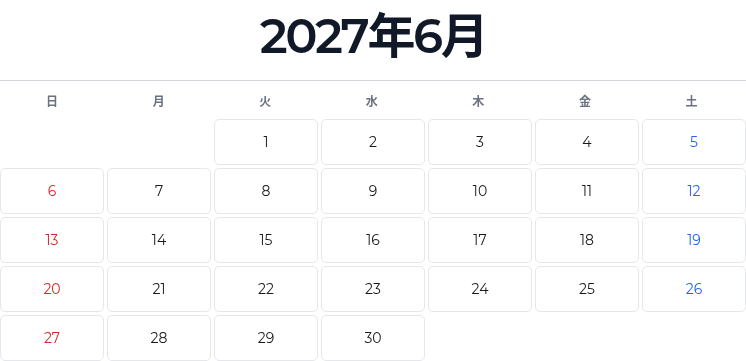
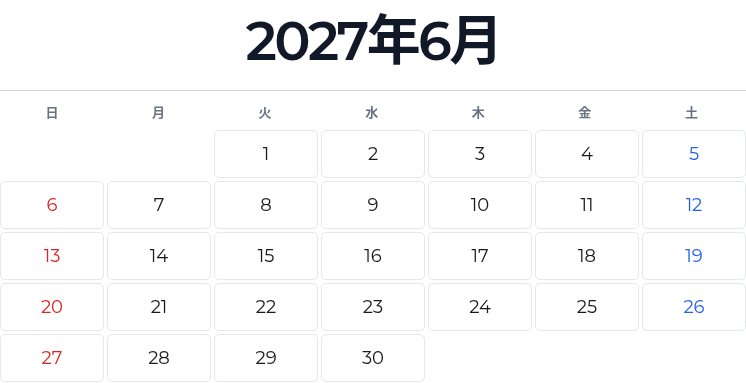
Allow independent day alignment and layout font defaults

diff --git a/tests/e2e/calendar-layouts.spec.ts b/tests/e2e/calendar-layouts.spec.ts
@@ -7,6 +7,14 @@ test("selects ten calendar layouts and exports the date list", async ({ page }) 
   const calendar = page.locator("[data-calendar-layout]").first();
   await expect(controls.getByRole("button")).toHaveCount(11);
   await expect(calendar).toHaveAttribute("data-calendar-layout", "standard");
+  const horizontal = page.getByRole("region", { name: "日付の左右揃え" });
+  const vertical = page.getByRole("region", { name: "日付の上下揃え" });
+  await horizontal.getByRole("button", { name: "右", exact: true }).click();
+  await vertical.getByRole("button", { name: "下", exact: true }).click();
+  const dayCell = calendar.locator(".calendar-cell:not([data-empty])").first();
+  await expect(dayCell).toHaveCSS("align-items", "flex-end");
+  await expect(dayCell).toHaveCSS("padding-top", "16px");
+  await expect(dayCell).toHaveCSS("padding-bottom", "0px");
 
   for (const [label, layout] of [
     ["中央・短い下線", "centered"],
@@ -26,6 +34,16 @@ test("selects ten calendar layouts and exports the date list", async ({ page }) 
     await expect(calendar).toHaveAttribute("data-calendar-layout", layout);
   }
 
+  await expect(horizontal.getByRole("button", { name: "右", exact: true })).toHaveAttribute(
+    "aria-pressed",
+    "true",
+  );
+  await expect(vertical.getByRole("button", { name: "下", exact: true })).toHaveAttribute(
+    "aria-pressed",
+    "true",
+  );
+  await expect(calendar.locator(".calendar-day-number").first()).toHaveCSS("align-self", "end");
+
   const dates = calendar.locator(".calendar-list-weekday");
   await expect(dates).toHaveCount(31);
   await expect(dates.first()).toHaveText("Fri");
@@ -40,4 +58,22 @@ test("selects ten calendar layouts and exports the date list", async ({ page }) 
   const html = Buffer.concat(chunks).toString("utf8");
   expect(html).toContain('<div data-calendar-layout="date-list"');
   expect(html).toContain('class="calendar-list-weekday"');
+  expect(html).toContain('data-day-align-h="end" data-day-align-v="end"');
+});
+
+test("uses layout font defaults and keeps manually adjusted sizes", async ({ page }) => {
+  await page.goto("/");
+  await page.getByRole("button", { name: "見た目", exact: true }).click();
+  const layout = page.getByRole("region", { name: "レイアウト", exact: true });
+  const daySize = page.getByText("日付", { exact: true }).locator("..").getByRole("slider");
+  const monthTitle = page.getByTestId("month-title").first();
+  await layout.getByRole("button", { name: "日付カード", exact: true }).click();
+  await expect(daySize).toHaveValue("18");
+  await expect(monthTitle).toHaveCSS("font-size", "54px");
+
+  await daySize.press("End");
+  await expect(daySize).toHaveValue("24");
+  await layout.getByRole("button", { name: "全面格子", exact: true }).click();
+  await expect(daySize).toHaveValue("24");
+  await expect(monthTitle).toHaveCSS("font-size", "48px");
 });

diff --git a/src/components/sidebar/AppearanceSection.tsx b/src/components/sidebar/AppearanceSection.tsx
@@ -1,9 +1,19 @@
-import { CALENDAR_LAYOUTS, resolveCalendarLayout } from "@/lib/calendarLayouts";
+import {
+  CALENDAR_LAYOUTS,
+  getLayoutStyleChange,
+  resolveCalendarLayout,
+} from "@/lib/calendarLayouts";
 import { useCalendarStore } from "@/stores/calendarStore";
 import { Label } from "@/components/ui/label";
 import { ThemeGrid } from "./ThemeGrid";
 import { FontSelector } from "./FontSelector";
 import { SliderField, getFontWarningLevel } from "./SliderField";
+
+const DAY_ALIGNMENT_OPTIONS = [undefined, "start", "center", "end"] as const;
+const DAY_ALIGNMENT_FIELDS = [
+  { field: "dayAlignH", label: "日付の左右揃え", choices: ["自動", "左", "中央", "右"] },
+  { field: "dayAlignV", label: "日付の上下揃え", choices: ["自動", "上", "中央", "下"] },
+] as const;
 
 export function AppearanceSection() {
   const calendarStyle = useCalendarStore((s) => s.calendarStyle);
@@ -19,7 +29,7 @@ export function AppearanceSection() {
               key={id}
               type="button"
               aria-pressed={resolveCalendarLayout(calendarStyle.layoutPreset) === id}
-              onClick={() => setCalendarStyle({ layoutPreset: id })}
+              onClick={() => setCalendarStyle(getLayoutStyleChange(calendarStyle, id))}
               className="rounded-lg border border-transparent bg-surface-container-high px-2 py-2 text-xs hover:border-primary/60 focus-visible:ring-2 focus-visible:ring-ring aria-pressed:border-primary aria-pressed:bg-surface"
             >
               {label}
@@ -27,6 +37,24 @@ export function AppearanceSection() {
           ))}
         </div>
       </section>
+      {DAY_ALIGNMENT_FIELDS.map(({ field, label, choices }) => (
+        <section key={field} aria-label={label} className="space-y-1.5">
+          <h3 className="text-xs font-bold text-on-surface-variant">{label}</h3>
+          <div className="grid grid-cols-4 rounded-lg bg-surface-container-high p-1">
+            {DAY_ALIGNMENT_OPTIONS.map((alignment, index) => (
+              <button
+                key={choices[index]}
+                type="button"
+                aria-pressed={calendarStyle[field] === alignment}
+                onClick={() => setCalendarStyle({ [field]: alignment })}
+                className="rounded-md px-1 py-1.5 text-xs text-on-surface-variant focus-visible:ring-2 focus-visible:ring-ring aria-pressed:bg-surface aria-pressed:text-on-surface aria-pressed:shadow-sm"
+              >
+                {choices[index]}
+              </button>
+            ))}
+          </div>
+        </section>
+      ))}
       <ThemeGrid />
       <FontSelector />
 

diff --git a/src/lib/html/gridRenderer.ts b/src/lib/html/gridRenderer.ts
@@ -1,11 +1,18 @@
-import type { PageData } from "@/stores/types";
+import type { ContentAlign, PageData } from "@/stores/types";
 import { DEFAULT_CALENDAR_STYLE } from "@/lib/constants";
 import { escapeHtml } from "../htmlUtils";
-import { getCalendarTitle, resolveCalendarLayout, type CalendarLayout } from "../calendarLayouts";
+import {
+  getCalendarTitle,
+  resolveCalendarLayout,
+  resolveDayAlignment,
+  type CalendarLayout,
+} from "../calendarLayouts";
 import { renderDayCell } from "./cellRenderer";
 
 export interface GridStyleOverrides {
   layoutPreset?: CalendarLayout;
+  dayAlignH?: ContentAlign;
+  dayAlignV?: ContentAlign;
   monthFontSize?: number;
   weekdayFontSize?: number;
   cellPadding?: number;
@@ -26,13 +33,19 @@ export function renderGridHtml(
 
   const layout = resolveCalendarLayout(style?.layoutPreset);
   const title = getCalendarTitle(layout, page.monthLabel);
+  const dayAlignH = resolveDayAlignment(style?.dayAlignH);
+  const dayAlignV = resolveDayAlignment(style?.dayAlignV);
+  const alignmentAttrs = [
+    dayAlignH && ` data-day-align-h="${dayAlignH}"`,
+    dayAlignV && ` data-day-align-v="${dayAlignV}"`,
+  ].join("");
   const year = title.year
     ? `<span class="calendar-title-year">${escapeHtml(title.year)}</span>`
     : "";
   const titleText =
     layout === "stacked" ? year + escapeHtml(title.main) : escapeHtml(title.main) + year;
   const dayCount = page.grid.flat().filter((cell) => cell.isCurrentMonth && cell.date).length;
-  let gridHtml = `<div data-calendar-layout="${layout}" style="width:${gridWidth}%;--calendar-grid-rule:${page.theme.colors.gridRule};--calendar-list-rows:${Math.ceil(dayCount / 2)};--calendar-list-short-rows:${Math.ceil(dayCount / 3)}">`;
+  let gridHtml = `<div data-calendar-layout="${layout}"${alignmentAttrs} style="width:${gridWidth}%;--calendar-grid-rule:${page.theme.colors.gridRule};--calendar-list-rows:${Math.ceil(dayCount / 2)};--calendar-list-short-rows:${Math.ceil(dayCount / 3)}">`;
   // Month label
   gridHtml += `<div class="calendar-title" style="color:${page.theme.colors.monthLabel};font-size:${monthFontSize}px;font-weight:800;letter-spacing:-0.05em;margin-bottom:${headerGap}px">${titleText}</div>`;
   // Header rule
@@ -50,6 +63,7 @@ export function renderGridHtml(
       gridHtml += renderDayCell(page, ri, ci, page.grid.length, {
         dayFontSize,
         cellPadding,
+        dayAlignV,
         showWeekday: layout === "date-list",
       });
     }

diff --git a/src/components/preview/CalendarGrid.tsx b/src/components/preview/CalendarGrid.tsx
@@ -1,5 +1,10 @@
 import type { CSSProperties } from "react";
-import { getCalendarTitle, resolveCalendarLayout } from "@/lib/calendarLayouts";
+import {
+  getCalendarTitle,
+  getDayCellPadding,
+  resolveCalendarLayout,
+  resolveDayAlignment,
+} from "@/lib/calendarLayouts";
 import "@/lib/calendarLayouts.css";
 import type {
   CalendarStyle,
@@ -53,6 +58,9 @@ export function CalendarGrid({
 
   const layout = resolveCalendarLayout(calendarStyle.layoutPreset);
   const title = getCalendarTitle(layout, monthLabel);
+  const dayAlignH = resolveDayAlignment(calendarStyle.dayAlignH);
+  const dayAlignV = resolveDayAlignment(calendarStyle.dayAlignV);
+  const dayPadding = getDayCellPadding(layout === "date-list" ? 0 : cellPadding, dayAlignV);
   const dayCount = grid.flat().filter((cell) => cell.isCurrentMonth && cell.date).length;
   const gridStyle = {
     width: `${calendarStyle.gridWidth}%`,
@@ -64,7 +72,12 @@ export function CalendarGrid({
   } as CSSProperties;
 
   return (
-    <div data-calendar-layout={layout} style={gridStyle}>
+    <div
+      data-calendar-layout={layout}
+      data-day-align-h={dayAlignH}
+      data-day-align-v={dayAlignV}
+      style={gridStyle}
+    >
       {/* Month label */}
       <div
         data-testid="month-title"
@@ -142,11 +155,12 @@ export function CalendarGrid({
                 className="calendar-cell flex flex-col items-center"
                 data-ruled={ri < grid.length - 1 ? "" : undefined}
                 style={{
-                  padding: `${layout === "date-list" ? 0 : cellPadding}px 0`,
+                  padding: dayPadding,
                 }}
               >
                 <span
                   className="calendar-day-number flex items-center"
+                  data-circled={isCircle ? "" : undefined}
                   style={{
                     color: textColor,
                     fontSize: `${layout === "date-list" ? Math.min(dayFontSize, 14) : dayFontSize}px`,

diff --git a/src/lib/calendarLayouts.ts b/src/lib/calendarLayouts.ts
@@ -1,3 +1,6 @@
+import type { CalendarStyle, ContentAlign } from "@/stores/types";
+import { DEFAULT_CALENDAR_STYLE } from "./constants";
+
 export const CALENDAR_LAYOUTS = [
   { id: "standard", label: "標準グリッド" },
   { id: "centered", label: "中央・短い下線" },
@@ -29,4 +32,41 @@ export function getCalendarTitle(layout: CalendarLayout, label: string) {
   const english = label.match(/^(.+) (\d{4})$/);
   if (english) return { main: english[1], year: english[2] };
   return { main: label };
+}
+
+const LAYOUT_FONT_SIZES: Partial<
+  Record<
+    CalendarLayout,
+    Partial<Pick<CalendarStyle, "monthFontSize" | "dayFontSize" | "weekdayFontSize">>
+  >
+> = {
+  centered: { monthFontSize: 54, dayFontSize: 16 },
+  "side-title": { monthFontSize: 36 },
+  cards: { monthFontSize: 54, dayFontSize: 18, weekdayFontSize: 13 },
+  "date-list": { monthFontSize: 40, dayFontSize: 13 },
+};
+
+export function getLayoutStyleChange(
+  style: CalendarStyle,
+  next: CalendarLayout,
+): Partial<CalendarStyle> {
+  const previousSizes = LAYOUT_FONT_SIZES[resolveCalendarLayout(style.layoutPreset)];
+  const nextSizes = LAYOUT_FONT_SIZES[next];
+  const change: Partial<CalendarStyle> = { layoutPreset: next };
+  for (const key of ["monthFontSize", "dayFontSize", "weekdayFontSize"] as const) {
+    if (style[key] === (previousSizes?.[key] ?? DEFAULT_CALENDAR_STYLE[key])) {
+      change[key] = nextSizes?.[key] ?? DEFAULT_CALENDAR_STYLE[key];
+    }
+  }
+  return change;
+}
+
+export function resolveDayAlignment(value: ContentAlign | undefined): ContentAlign | undefined {
+  if (value === "start" || value === "center" || value === "end") return value;
+}
+
+export function getDayCellPadding(padding: number, vertical?: ContentAlign): string {
+  if (vertical === "start") return `0 0 ${padding * 2}px`;
+  if (vertical === "end") return `${padding * 2}px 0 0`;
+  return `${padding}px 0`;
 }

diff --git a/src/lib/calendarLayouts.css b/src/lib/calendarLayouts.css
@@ -215,3 +215,53 @@
     grid-template-rows: repeat(var(--calendar-list-short-rows), minmax(0, 1fr));
   }
 }
+
+[data-day-align-h="start"] {
+  --calendar-day-align-h: flex-start;
+}
+
+[data-day-align-h="center"] {
+  --calendar-day-align-h: center;
+}
+
+[data-day-align-h="end"] {
+  --calendar-day-align-h: flex-end;
+}
+
+[data-calendar-layout][data-day-align-h]:not([data-calendar-layout="date-list"]) .calendar-cell {
+  align-items: var(--calendar-day-align-h);
+}
+
+[data-calendar-layout][data-day-align-h] .calendar-day-number {
+  justify-content: var(--calendar-day-align-h);
+}
+
+[data-day-align-v="start"] {
+  --calendar-day-align-v: start;
+}
+
+[data-day-align-v="center"] {
+  --calendar-day-align-v: center;
+}
+
+[data-day-align-v="end"] {
+  --calendar-day-align-v: end;
+}
+
+[data-calendar-layout][data-day-align-v]:not([data-calendar-layout="date-list"]) .calendar-cell {
+  justify-content: var(--calendar-day-align-v);
+}
+
+[data-calendar-layout="date-list"][data-day-align-v] .calendar-day-number {
+  align-self: var(--calendar-day-align-v);
+}
+
+[data-calendar-layout] .calendar-day-number[data-circled] {
+  justify-content: center;
+}
+
+[data-calendar-layout="date-list"] .calendar-day-number[data-circled] {
+  justify-self: var(--calendar-day-align-h, end);
+  width: 1.35em;
+  padding-inline: 0;
+}

diff --git a/src/lib/html/cellRenderer.ts b/src/lib/html/cellRenderer.ts
@@ -1,9 +1,11 @@
+import { getDayCellPadding } from "../calendarLayouts";
 import { escapeHtml } from "../htmlUtils";
-import type { PageData, HolidayMarkStyle } from "@/stores/types";
+import type { ContentAlign, PageData, HolidayMarkStyle } from "@/stores/types";
 import { DEFAULT_CALENDAR_STYLE } from "@/lib/constants";
 
 export interface CellStyleOverrides {
   showWeekday?: boolean;
+  dayAlignV?: ContentAlign;
   dayFontSize?: number;
   cellPadding?: number;
 }
@@ -57,5 +59,5 @@ export function renderDayCell(
   const weekday = style?.showWeekday
     ? `<span class="calendar-list-weekday" style="color:${textColor}">${escapeHtml(page.weekdayHeaders[ci])}</span>`
     : "";
-  return `<div class="calendar-cell"${ruled} style="padding:${isList ? 0 : cellPadding}px 0"><span class="calendar-day-number" style="${spanStyle}">${cell.dayOfMonth}</span>${weekday}${mark}</div>`;
+  return `<div class="calendar-cell"${ruled} style="padding:${getDayCellPadding(isList ? 0 : cellPadding, style?.dayAlignV)}"><span class="calendar-day-number"${isCircle ? " data-circled" : ""} style="${spanStyle}">${cell.dayOfMonth}</span>${weekday}${mark}</div>`;
 }

diff --git a/src/components/download/DownloadButton.tsx b/src/components/download/DownloadButton.tsx
@@ -27,6 +27,8 @@ function buildInput(store: ReturnType<typeof useCalendarStore.getState>): HtmlGe
       pageMarginTop: store.calendarStyle.pageMarginTop,
       gridWidth: store.calendarStyle.gridWidth,
       layoutPreset: store.calendarStyle.layoutPreset,
+      dayAlignH: store.calendarStyle.dayAlignH,
+      dayAlignV: store.calendarStyle.dayAlignV,
       monthFontSize: store.calendarStyle.monthFontSize,
       dayFontSize: store.calendarStyle.dayFontSize,
       weekdayFontSize: store.calendarStyle.weekdayFontSize,

diff --git a/src/stores/types.ts b/src/stores/types.ts
@@ -36,6 +36,8 @@ export interface CalendarStyle {
   pageMarginTop: number;
   gridWidth: number;
   layoutPreset?: CalendarLayout;
+  dayAlignH?: ContentAlign;
+  dayAlignV?: ContentAlign;
 }
 
 // === Color Theme ===
@@ -130,6 +132,8 @@ export interface HtmlGeneratorInput {
       | "pageMarginTop"
       | "gridWidth"
       | "layoutPreset"
+      | "dayAlignH"
+      | "dayAlignV"
       | "monthFontSize"
       | "dayFontSize"
       | "weekdayFontSize"

diff --git a/src/lib/html/pageRenderer.ts b/src/lib/html/pageRenderer.ts
@@ -95,6 +95,8 @@ export function renderPage(
   const gridWidthPct = calendarStyle?.gridWidth ?? 100;
   const gridStyle = {
     layoutPreset: calendarStyle?.layoutPreset,
+    dayAlignH: calendarStyle?.dayAlignH,
+    dayAlignV: calendarStyle?.dayAlignV,
     monthFontSize: calendarStyle?.monthFontSize,
     dayFontSize: calendarStyle?.dayFontSize,
     weekdayFontSize: calendarStyle?.weekdayFontSize,

diff --git a/README.md b/README.md
@@ -54,7 +54,9 @@ Classic と Montserrat の組み合わせで、日付の数字の太さを比較
 
 ## レイアウト見本
 
-設定の「見た目 → レイアウト」から、標準グリッドと10種類のレイアウトを選べます。見本は2027年6月の同じ設定で、縦リストはA4横向き・左に画像を置いた印刷例です。
+設定の「見た目 → レイアウト」から、標準グリッドと10種類のレイアウトを選べます。レイアウトごとの初期文字サイズで、2027年6月を表示した見本です。縦リストはA4横向き・左に画像を置いた印刷例です。
+
+日付の左右・上下揃えは別々に指定できます。「自動」を選ぶとレイアウト本来の揃え方になります。
 
 | 中央・短い下線                                      | 右揃え・線なし                                           |
 | --------------------------------------------------- | -------------------------------------------------------- |
